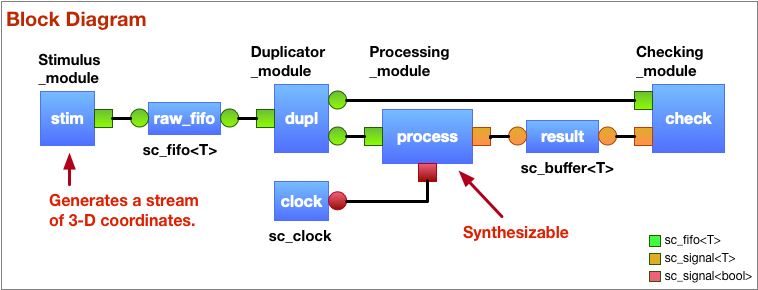
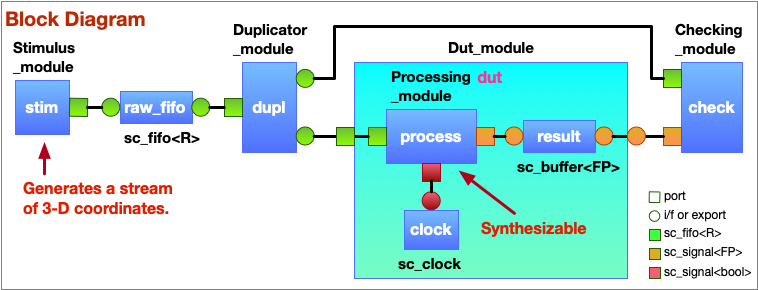
add a level of hierarchy to increase connectivity issues

diff --git a/top.cpp b/top.cpp
@@ -5,7 +5,7 @@
 #include "top.hpp"
 #include "stimulus.hpp"
 #include "duplicator.hpp"
-#include "processing.hpp"
+#include "dut.hpp"
 #include "checker.hpp"
 #include "sc_cxx11.hpp"
 using namespace sc_core;
@@ -18,18 +18,15 @@ Top_module::Top_module( sc_module_name instance ) //< Constructor
    */
   stim    = std::make_unique<Stimulus_module>   ( "stim"    );
   dupl    = std::make_unique<Duplicator_module> ( "dupl"    );
-  process = std::make_unique<Processing_module> ( "process" );
+  dut     = std::make_unique<Dut_module>        ( "dut"     );
   check   = std::make_unique<Checker_module>    ( "check"   );
-  clock   = std::make_unique<sc_clock>          ( "clock", 10_ns );
   /**
    * Connect
    */
   stim->rawout_port   .bind( raw_fifo         );
   dupl->input_port    .bind( raw_fifo         );
-  process->input_port .bind( dupl->out1_xport );
-  process->output_port.bind( result_buffer    );
-  process->clk_port   .bind( *clock           );
-  check->result_port  .bind( result_buffer    );
+  dut->input_port     .bind( dupl->out1_xport );
+  check->result_port  .bind( dut->out_xport   );
   check->rawin_port   .bind( dupl->out2_xport );
 }
 

diff --git a/dut.cpp b/dut.cpp
@@ -1,0 +1,28 @@
+/**
+ * @file  dut.cpp
+ * @brief Dut-level interconnect implementation
+ */
+#include "dut.hpp"
+#include "processing.hpp"
+#include "sc_cxx11.hpp"
+using namespace sc_core;
+
+//..............................................................................
+Dut_module::Dut_module( sc_module_name instance ) //< Constructor
+{
+  /**
+   * Instantiate
+   */
+  process = std::make_unique<Processing_module> ( "process" );
+  clock   = std::make_unique<sc_clock>          ( "clock", 10_ns );
+  /**
+   * Connect
+   */
+  process->input_port .bind( input_port       );
+  process->output_port.bind( result_buffer    );
+  process->clk_port   .bind( *clock           );
+  out_xport           .bind( result_buffer    );
+}
+
+//..............................................................................
+Dut_module::~Dut_module( void ) = default;

diff --git a/top.hpp b/top.hpp
@@ -8,18 +8,19 @@
 #include <memory>
 struct Stimulus_module;
 struct Duplicator_module;
-struct Processing_module;
+struct Dut_module;
 struct Checker_module;
 struct Top_module : sc_core::sc_module
 {
   Top_module( sc_core::sc_module_name instance );
   ~Top_module( void );
+  /**
+   * Components
+   */
   std::unique_ptr<Stimulus_module>   stim;
   std::unique_ptr<Duplicator_module> dupl;
-  std::unique_ptr<Processing_module> process;
+  std::unique_ptr<Dut_module>        dut;
   std::unique_ptr<Checker_module>    check;
-  std::unique_ptr<sc_core::sc_clock> clock;
   sc_core::sc_fifo<RawData_t>        raw_fifo      { "raw_fifo", FIFO_DEPTH };
-  sc_core::sc_buffer<FixedPt_t>      result_buffer { "result_buffer" };
 };
 #endif/*TOP_HPP*/

diff --git a/dut.hpp b/dut.hpp
@@ -1,0 +1,29 @@
+/**
+ * @file dut.hpp
+ */
+#ifndef DUT_HPP
+#define DUT_HPP
+#include "common.hpp"
+#include <systemc>
+#include <memory>
+struct Processing_module;
+struct Dut_module : sc_core::sc_module
+{
+  /**
+   * Ports
+   */
+  sc_core::sc_port<sc_core::sc_fifo_in_if<RawData_t>>     input_port { "input_port" };
+  sc_core::sc_export<sc_core::sc_signal_in_if<FixedPt_t>> out_xport  { "out_xport"  };
+  /**
+   * Constructors
+   */
+  Dut_module( sc_core::sc_module_name instance );
+  ~Dut_module( void );
+  /**
+   * Ports
+   */
+  std::unique_ptr<Processing_module> process;
+  std::unique_ptr<sc_core::sc_clock> clock;
+  sc_core::sc_buffer<FixedPt_t>      result_buffer { "result_buffer" };
+};
+#endif/*DUT_HPP*/

diff --git a/README.md b/README.md
@@ -3,6 +3,7 @@
 # Modern SystemC Project
 
 Illustrate various C++11/14/17 techniques with SystemC 2.3.2. This project is hosted on github at https://github.com/dcblack/ModernSystemC.git .
+The notion of "modern C++" means, C++ syntax and library features from 2011 onward.
 
 #### Note
 
@@ -12,18 +13,18 @@ of many SystemC coders, but can be useful when mixing various sources.
 ## Design
 
 A simple design was chosen to illustrate a variety of features. Basically
-a processing module takes a 3-D vector (x, y, z) coordinate and outputs its
+the processing module takes a 3-D vector (x, y, z) coordinate and outputs its
 magnitude. Fixed-point numbers are demonstrated.
 
-Key features of C++ that are illustrated include:
+Key features of modern C++ that are illustrated include:
 
 - Uniform initialization, std::initializer_list
-- std::unique_ptr, std::valarray, std::default_random_engine
+- `std::unique_ptr`, `std::valarray`, `std::default_random_engine`
 - for-each loop
-- auto type inference
+- `auto` type inference
 - Explicit default implementation
 - Override safety
-- User-defined literals (sc_time)
+- User-defined literals (e.g. `sc_time`)
 
 Verification features include:
 
@@ -75,7 +76,7 @@ and creation of all build artifacts in the `build/` subdirectory.
 
 #### Prerequisites
 
-This project requires a moder C++ compiler such as g++ (part of GCC) or clang++ (part of llvm). Additionally, automation and documentation require the following:
+This project requires a modern C++ compiler such as g++ (part of GCC) or clang++ (part of llvm). Additionally, automation and documentation require the following:
 
 1. GNU make, Ninja, CDT Eclipse or Xcode (only tested on make and ninja as of this writing)
 2. cmake
